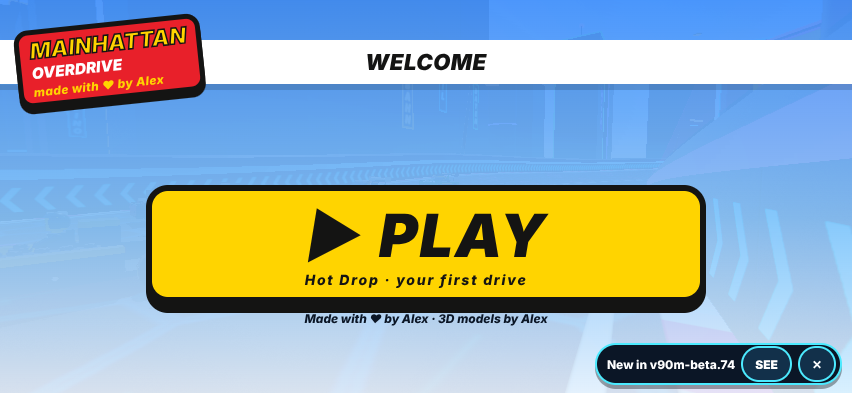
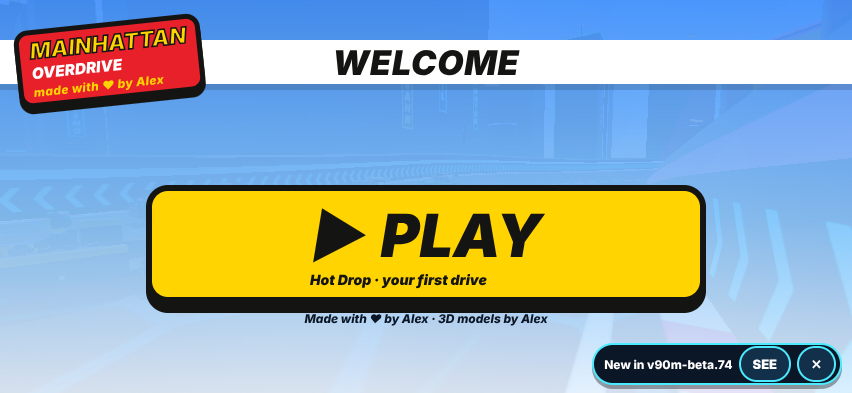
onboard-2: smaller module, pill row layout, trim old comments for size headroom
Claude-Session: https://claude.ai/code/session_01F7AP4sD7QLPE8AJ5seixeX

diff --git a/src/90_fixes_cv_ju.js b/src/90_fixes_cv_ju.js
@@ -1,5 +1,4 @@
 // ===== OB (owner bugs): burst cause log + phantom-burst fixes
-// every debris / stud burst / transform burst is logged with the function that fired it (cause); bursts fire only from real hits, pickups or real vehicle switches
 const OB={log:[],on:false,n:0,unc:0,sw:[],off:(()=>{try{return localStorage.getItem('ob_off')==='1'}catch(e){return false}})()};  // ob_off=1: old behaviour (for before/after measurements)
 function OB_who(){const L=(new Error().stack||'').split('\n').slice(2);if(L.some(l=>/AU_fountain/.test(l)))return'smashCheck';for(const l of L){const m=l.match(/at (?:[\w$]+\.)*([\w$]+) \(/);if(m&&!/^(OB_|debris$|studBurst$|burst$|AU_fountain$|forEach$|map$|apply$|call$)/.test(m[1]))return m[1]}return '?'}
 function OB_prop(at){if(!at||!HUB.pgrid)return null;const L=HUB.pgrid.get(Math.floor(at.x/16)*10000+Math.floor(at.z/16))||[];for(const p of L)if(Math.abs(p.x-at.x)<.01&&Math.abs(p.z-at.z)<.01){let v=true;for(let o=p.im;o;o=o.parent)if(!o.visible)v=false;return{t:p.t,vis:v,dy:+(p.y-groundY(p.x,p.z)).toFixed(1),py:+p.y.toFixed(1),ry:+RO.y.toFixed(1)}}return null}
@@ -20,8 +19,6 @@ if(!OB.off)FL_terr=function(T0,ground,dt=1/60){const raw=FL_raw(T0,ground),air=R
     if(FL.cT>=OB_HOLD&&(FL.cD>=OB_DIST||raw==='water')&&FL.hold<=0){FL.s=raw;FL.hold=OB_MINHOLD;FL.cT=0;FL.cD=0}}
   else if(!air){FL.cand=FL.s;FL.cT=0;FL.cD=0}
   return raw};
-// ---- fix 2 · contact tests: the old checks were circles (props: r+2.1 m, traffic: 5 m) so passing a lamp, bin or a car in the next lane
-// 1–3 m away "smashed" it with a full brick burst. Now: the car's real footprint (oriented box) must touch the prop / the other car's box.
 let OB_HW=1.25,OB_HL=2.45; // let: 98bc_bigcars.js sizes them to the player car
 function OB_touch(px,pz,r,ox=RO.x,oz=RO.z,oh=RO.h){const dx=px-ox,dz=pz-oz,s=Math.sin(oh),c=Math.cos(oh),a=dx*s+dz*c,b=dx*c-dz*s;
   const qa=Math.max(0,Math.abs(a)-OB_HL),qb=Math.max(0,Math.abs(b)-OB_HW);const g=Math.hypot(qa,qb),ok=g<r+.25;if(ok)OB.hit={k:'prop',f:OB.fr};else OB.pm.add(px*7919+pz);return ok||OB.off}
@@ -34,11 +31,9 @@ OB.cm=new Set();OB.pm=new Set();OB.fr=0;
 // frame counter for the contact flag (a burst is 'with contact' when a contact test passed in the same sim step)
 roamStep=(f=>function(dt){OB.fr++;OB.n0=OB.fr;return f.apply(this,arguments)})(roamStep);
 
-// OB: Euro-Skulptur (Willy-Brandt-Platz) rebuilt as a readable € sign: blue C arc (~300°, open to the right), two yellow bars
 // reaching left past the arc, on a neck + plinth, ringed by 12 yellow five-pointed stars (EU flag), ~14 m tall.
 // Everything is merged into ONE vertex-coloured geometry added to the landmark batch (BM.plain) -> no extra draw call.
 let OB_EURO=null;
-// Base height = what TR_bldFix computes for the collider footprint (max(min,max-.8) of 9 ground samples), so its terrain lift is 0:
 // the base game lifted only the vertices near the 2x2 collider (the old arc/stars got sheared = the "weird shape").
 const OB_EURO_HW=3.4,OB_EURO_HD=2.1;
 function OB_euroBuild(bt,BM,x,z){const GY=(a,b)=>(typeof groundY==='function'?groundY(a,b):0)||0,P=[];for(const u of[-1,0,1])for(const v of[-1,0,1])P.push(GY(x+u*OB_EURO_HW,z+v*OB_EURO_HD));
@@ -65,19 +60,13 @@ window.__ob=Object.assign(window.__ob||{},{euro:()=>{if(!OB_EURO)return null;con
 
 // ===== OC (owner bugs 2): soft night lights, real-scale Acropolis, height fixes, nothing standing on the roads
 const OC={dropT:{},pool:null,lamps:[],acro:null,moved:0,dropped:0,sunk:0,scaled:{},skip:/^(parthenon|erechtheion|propylaea|odeon)$/};
-// ---------- 1 · night lights. Headlights: one faint additive fan per car that fades along its length and to its edges (peak +0.24 after
-// FL's 2.4x night colour, no hard polygon); street lamps: a small bulb under each head + a warm radial pool on the ground (one draw call)
 function OC_beamGeo(){const NL=14,NW=8,L=20,P=[],C=[],I=[];
   for(let i=0;i<=NL;i++){const t=i/NL,z=2.3+t*L,hw=.95+t*L*.3,f=Math.min(1,t/.06)*(1-t)*(1-t);for(let j=0;j<=NW;j++){const u=j/NW*2-1,g=(1-u*u)*(1-u*u),k=.1*f*g;P.push(u*hw,.16,z);C.push(k,k*.93,k*.78)}}
   for(let i=0;i<NL;i++)for(let j=0;j<NW;j++){const a=i*(NW+1)+j,b=a+1,c=a+NW+1,d=c+1;I.push(a,c,b,b,c,d)}
   const g=new THREE.BufferGeometry();g.setAttribute('position',new THREE.Float32BufferAttribute(P,3));g.setAttribute('color',new THREE.Float32BufferAttribute(C,3));g.setIndex(I);g.setAttribute('uv',new THREE.Float32BufferAttribute(new Array(P.length/3*2).fill(0),2));g.computeVertexNormals();return g}
 FL_headlights=function(n){if(!HUB.grp||!HUB.cars)return;let H=FL.hl;const N=HUB.cars.length+1;
-  // PERF-4: capacity = instanceMatrix.count. H.count is the drawn count set below, so `H.count<N` rebuilt the mesh every call while any car was hidden
-  // (most of the time), and the old one was never disposed: its geometry + instance buffer stayed on the GPU (+0.7 MB per area, ~1 rebuild/s at dusk/night).
   if(H&&H.parent!==HUB.grp&&H.instanceMatrix.count>=N)HUB.grp.add(H);
   if(!H||H.instanceMatrix.count<N){if(H){H.removeFromParent();H.geometry.dispose();H.material.dispose();H.dispose()}
-    // v89q: no lamp boxes. The 4 fixed cboxes (±.74 m, ±2.25 m) fitted no car (traffic rears -2.0..-2.8 m, player x1.2), so at 2.4x additive
-    // they floated beside/behind every car as solid pink/white rectangles. The cars' own lamp parts glow via FL_emis; only the soft beam fan stays.
     const L=[OC_beamGeo()];
     const mat=new THREE.MeshBasicMaterial({vertexColors:true,transparent:true,blending:THREE.AdditiveBlending,depthWrite:false,toneMapped:false,color:0x000000,fog:true,polygonOffset:true,polygonOffsetFactor:-2,polygonOffsetUnits:-4});
     H=FL.hl=new THREE.InstancedMesh(mergeG(L),mat,N+8);H.frustumCulled=false;H.renderOrder=2;HUB.grp.add(H);H.userData.keep=1;H.userData.oc=1}
@@ -85,10 +74,8 @@ FL_headlights=function(n){if(!HUB.grp||!HUB.cars)return;let H=FL.hl;const N=HUB.
   if(pl&&RO.on){FL_hq.setFromAxisAngle(FL_hy,RO.h);FL_hm.compose(FL_hv.set(RO.x,RO.y,RO.z),FL_hq,FL_hs.set(1.2,1.2,1.25));H.setMatrixAt(j++,FL_hm)}
   for(const c of HUB.cars){if(c.dead>0)continue;const im=HUB.cim[c.k];if(!im)continue;im.getMatrixAt(c.j,FL_hm);H.setMatrixAt(j++,FL_hm)}
   H.count=j;H.instanceMatrix.needsUpdate=true;OC_poolStep(n)};
-// radial pool: 6 concentric discs (radius 1 .. 0.2) merged into one geometry, each adding 1/6 of the light: a soft stepped falloff to the rim
 function OC_poolGeo(){const L=[];for(let k=0;k<6;k++){const r=.5*(1-k*.16);L.push(new THREE.CircleGeometry(r,28).rotateX(-Math.PI/2).toNonIndexed())}const P=[];for(const g of L)P.push(...g.attributes.position.array);
   const g=new THREE.BufferGeometry();g.setAttribute('position',new THREE.Float32BufferAttribute(P,3));return g}
-// lamp heads: the 1.4 m white glow ball becomes a small flattened bulb under the head; pools of light on the ground under every lamp
 function OC_lampsBuild(){const D=HUB.ptypes;if(!D||!D.lamp||!HUB.lampGlow)return;const bulb=new THREE.SphereGeometry(.3,10,6);bulb.scale(1.3,.5,1);bulb.translate(0,-.3,0);
   HUB.grp.traverse(o=>{if(o.isInstancedMesh&&o.material===HUB.lampGlow)o.geometry=bulb});
   const L=OC.lamps=HUB.props.filter(p=>p.t==='lamp');if(OC.pool&&OC.pool.parent)OC.pool.parent.remove(OC.pool);OC.pool=null;if(!L.length)return;
@@ -98,7 +85,6 @@ function OC_lampsBuild(){const D=HUB.ptypes;if(!D||!D.lamp||!HUB.lampGlow)return
   im.computeBoundingSphere();im.frustumCulled=false;im.renderOrder=1;im.visible=false;im.userData.keep=1;im.userData.ocPool=1;HUB.grp.add(im);OC.pool=im;OC.pm=m;OC.dead=new Set()}
 function OC_poolStep(n){const P=OC.pool;if(!P)return;P.material.opacity=.04*n;OC.poolPeak=6*.04*n;P.visible=n>.02;if(!P.visible)return;OC.pt=(OC.pt||0)+1;if(OC.pt%20)return;let ch=false;
   for(const p of OC.lamps){const dead=!p.alive;if(dead===OC.dead.has(p))continue;if(dead){OC.dead.add(p);P.getMatrixAt(p.ocP,OC.pm);p.ocM=OC.pm.clone();OC.pm.makeScale(0,0,0)}else{OC.dead.delete(p);OC.pm.copy(p.ocM)}P.setMatrixAt(p.ocP,OC.pm);ch=true}if(ch)P.instanceMatrix.needsUpdate=true}
-// ---------- 2 · props: nothing stands on a drivable surface (streets, filler roads, Autobahn, biome roads, trails, junctions); real heights;
 // ground-placed props sit on the lowest ground under their footprint (no floating edge on slopes)
 const OC_GAME=new Set(['cone','barrier','clight']);// roadworks deliberately placed on the lanes (art-6: brick piles, towers and gold bricks are block scatter in the block RECT, which diagonal roads cross, so they get the same push-off-the-road as any prop; GO art/props-road)
 const OC_fp=(t,D)=>t.startsWith('car')||/^CE_(car|taxi)/.test(t)?1.1:Math.min((D[t]?D[t].r:1)*.5,1.2);
@@ -121,17 +107,12 @@ function OC_props(L,D){OC_scaleDefs(D);let j=0;for(const p of L){let ground=Math
     if(ground&&D[p.t]){const y=OC_minG(p.x,p.z,OC_fp(p.t,D));if(g0-y>1){OC.steep=(OC.steep||0)+1;continue}if(p.y-y>.05){p.y=y;OC.sunk++}p.gp=1}
     L[j++]=p}L.length=j;HUB.OC={moved:OC.moved,dropped:OC.dropped,by:OC.dropT,sunk:OC.sunk,steep:OC.steep||0};return L}
 const OC_onRoad=(t,x,z)=>!OC_GAME.has(t)&&HUB.ptypes&&OC_roadE(x,z)<OC_fp(t,HUB.ptypes)+.35;
-// real heights: Athens street tree 4.8 m -> 6.5 m, olive 3.7 -> 6.1 m; parked and traffic cars (toy 3.0-3.5 m tall, 5.9-6.3 m long) -> ~1.6 x 1.95 x 4.6 m
 function OC_carScale(g,car){if(g.userData.oc)return;g.computeBoundingBox();const b=g.boundingBox,w=b.max.x-b.min.x,h=b.max.y-b.min.y,l=b.max.z-b.min.z;if(h<2.2)return;
   if(w<1.2){const k=1.75/h;g.scale(k,k,k)}else if(car||l<=6.4&&w>=3.2)g.scale(1.95/w,1.6/h,4.6/l);else g.scale(Math.min(1,2.5/w),Math.min(1,(h>4.5?4.2:3.4)/h),1);// cars: real size; vans, trucks, buses: real width, height capped
   g.userData.oc=1;g.computeBoundingBox();g.computeBoundingSphere()}
 function OC_scaleDefs(D){const S={tree:CID==='fra'?null:[1.25,1.35,1.25],CE_olive:[1.2,1.65,1.2]};for(const t in S){const d=D[t];if(!d||!S[t]||d.g.userData.oc)continue;d.g.scale(...S[t]);d.g.userData.oc=1;OC.scaled[t]=S[t]}
   for(const t of['car','car2','car3','car4'])if(D[t]){OC_carScale(D[t].g,1);OC.scaled[t]=1}}
 function OC_traffic(){for(const k in HUB.cim||{}){const im=HUB.cim[k];if(im&&im.geometry){OC_carScale(im.geometry);im.computeBoundingSphere&&im.computeBoundingSphere()}}}
-// ---------- 3 · the Acropolis at real scale (1 world unit = 1 m). Plateau ~266 x 156 m (hill data), Parthenon 69.5 x 30.9 m stylobate,
-// 8 x 17 Doric columns 10.43 m, entablature 3.29 m, pediments; Erechtheion + caryatid porch, Propylaea, Athena Nike on its bastion,
-// Odeon of Herodes Atticus, Theatre of Dionysus; scaffolding + tower crane at the Parthenon. Offsets in metres east/north of the Parthenon
-// centre (site plan + Wikipedia coordinates). Built right after the terrain fix, merged into one batch, colliders added to the grid.
 const OC_AK={parth:[0,0],erech:[-15,60],propy:[-118,15],nike:[-137,-9],odeon:[-186,-88],dion:[111,-125],crane:[-6,27]};
 function OC_acroBuild(){if(CID==='fra'||!HUB.grp||OC.acroG===HUB.grp)return;OC.acroG=HUB.grp;const[px,pz]=WP(80,-507);if(px<WX0+300||px>WX1-300||pz<WZS+300||pz>WZN-300)return;
   const bt=new LBatch(),BM=HUB.BM,MB='#e6d8b8',MW='#efe4cb',MD='#d4c29c',W=(e,n)=>[px-e,pz+n],cols=[],bl=[],box=(w,h,d,x,y,z,c,ry=0)=>bt.add(cbox(w,h,d,x,y+h/2,z,c,ry),BM.plain);
@@ -156,13 +137,11 @@ function OC_acroBuild(){if(CID==='fra'||!HUB.grp||OC.acroG===HUB.grp)return;OC.a
   {const[x,z]=W(...OC_AK.crane),y=groundY(x,z),Y='#f2c200',H=42;for(let k=0;k<7;k++)box(1.8,H/7-.4,1.8,x,y+k*H/7,z,Y);for(let k=0;k<7;k++)for(const s of[-1,1])bt.add(cbox(.1,6,.1,x+s*.85,y+k*H/7+3,z+.85*s,'#d8a800'),BM.plain);
     box(2.2,2.4,2.2,x,y+H,z,'#d8a800');box(46,1.2,1.2,x-14,y+H+2.4,z,Y);box(14,1,1.2,x+16,y+H+2.4,z,Y);box(4,2.6,2.4,x+20,y+H+.2,z,'#7a7a7a');box(2.2,2,2.2,x+1.8,y+H-1.6,z-1.7,'#ffffff');
     box(.1,8,.1,x,y+H+3.6,z,Y);box(.06,16,.06,x-30,y+H+2.4-16,z,'#333333');box(.8,.8,.8,x-30,y+H+2.4-16.8,z,'#e8302a');coll(x,z,1.2,1.2,y,y+H+3,0);A.crane=H+3.6}
-  // Erechtheion: main block 23.5 x 11.6 m, east porch (6 Ionic columns), north porch (4+2), caryatid porch on the south side (6 korai on a podium)
   {const[x,z]=W(...OC_AK.erech),y=gmin(x,z,14,9),BW=23.5,BD=11.6;box(BW+2,1,BD+2,x,y-.4,z,MD);box(BW,8.6,BD,x+1,y+.6,z,MB);box(BW+.8,1.4,BD+.8,x+1,y+9.2,z,MW);
     for(let i=0;i<6;i++)col(x-BW/2-1.6,y+.6,z-BD/2+1+i*(BD-2)/5,.42,6.6);box(1.6,1.4,BD,x-BW/2-1.6,y+7.2,z,MW);ped(x-BW/2-1.2,y+8.6,z,BD+.6,2.4,2.2,MW);
     {const nx=x+BW/2-5.5,nz=z+BD/2+3.8;box(10.7,.6,7.6,nx,y-.2,nz,MD);for(let i=0;i<4;i++)col(nx-4.5+i*3,y+.4,nz+3.2,.45,7.6);for(const s of[-1,1])col(nx+s*4.5,y+.4,nz,.45,7.6);box(10.7,1.6,7.6,nx,y+8,nz,MW)}
     {const cx=x+BW/2-4,cz=z-BD/2-1.9;box(5.6,1.8,3.8,cx,y+.6,cz,MD);for(const[a,b]of[[-2.2,-1.5],[-.75,-1.5],[.75,-1.5],[2.2,-1.5],[-2.2,0],[2.2,0]]){bt.add(ccyl(.28,.36,2.3,cx+a,y+2.4+1.15,cz+b,'#f2e8d2',8),BM.plain);bt.add(csph(.3,cx+a,y+4.85,cz+b,'#f2e8d2'),BM.plain)}box(5.9,.7,4.1,cx,y+5.1,cz,MW)}
     coll(x+1,z+1.5,BW/2+1.6,BD/2+3,y,y+10.6,0);A.erech={x,z,y}}
-  // Propylaea: central gate building (6 Doric columns west and east, pediments), Pinakotheke (NW wing), SW wing; stairs down the west approach
   {const[x,z]=W(...OC_AK.propy),y=gmin(x,z,14,12);box(24,1.2,20,x,y-.6,z,MD);const yw=y+.6;
     for(const[ex,h]of[[12,8.8],[-12,8.5]])for(let i=0;i<6;i++){col(x+ex,yw,z-8.5+i*3.4,.78,h);}for(const s of[-1,1])box(22,9.2,1.4,x,yw,z+s*9.5,MB);for(const zz of[-5.1,5.1])box(1.4,9,2.6,x+1,yw,z+zz,MB);
     for(const ex of[12,-12]){box(2.2,2.4,20,x+ex,yw+8.8,z,MB);ped(x+ex,yw+11.2,z,20.4,2.2,2.6,MW)}box(22,.5,20,x,yw+11,z,MW);
@@ -184,7 +163,6 @@ function OC_acroBuild(){if(CID==='fra'||!HUB.grp||OC.acroG===HUB.grp)return;OC.a
   {const[x,z]=W(...OC_AK.dion),yo=groundY(x,z);bt.add(ccyl(10,10,.3,x,yo,z,'#d9cdb2',24),BM.plain);for(let t=0;t<18;t++){const R=11+t*1.55,top=yo+.45+t*.78,n=Math.ceil(R*1.25*Math.PI/4.2);
       for(let k=0;k<n;k++){const a=-.12*Math.PI+1.24*Math.PI*(k+.5)/n,cx=x+Math.cos(a)*R,cz=z+Math.sin(a)*R,g=groundY(cx,cz);if(g>top-.2)continue;box(R*1.24*Math.PI/n+.3,top-g+.8,1.7,cx,g-.8,cz,t===0?'#f0e6d0':t%6===5?'#cbbd9e':'#dfd3b8',Math.PI/2-a)}}
     const zs=z-14,gs=gmin(x,zs,22,3);box(44,2.4+(yo-gs),5,x,gs,zs,'#c9b994');for(let k=0;k<6;k++)col(x-15+k*6,yo+2.4,zs,.4,3.2,MB,8);coll(x,zs,22,2.5,gs,yo+3,0);A.dion={x,z,y:yo}}
-  // circuit walls along the plateau edge (the base ring is skipped: the terrain fix lifted it by the plateau height); open to the west approach
   {const H=HILL_BY.akro,N=72,pt=t=>{const u=Math.sin(t),v=Math.cos(t),de=(u*H.rx*.975)*H.ca+(v*H.rz*.975)*H.sa,dn=-(u*H.rx*.975)*H.sa+(v*H.rz*.975)*H.ca;return[H.cx-de*H.sx,H.cz+dn*H.sz,u]},yH=groundY(H.cx,H.cz);
     for(let k=0;k<N;k++){const t0=k/N*Math.PI*2,t1=(k+1)/N*Math.PI*2,[x0,z0,u0]=pt(t0),[x1,z1,u1]=pt(t1);if((u0+u1)/2<-.42)continue;const cx=(x0+x1)/2,cz=(z0+z1)/2,L=Math.hypot(x1-x0,z1-z0)+1.6,ry=Math.atan2(-(z1-z0),x1-x0),g=groundY(cx,cz);
       box(L,yH+1.3-(g-7),2.2,cx,g-7,cz,'#cdb995',ry);box(L,.35,2.6,cx,yH+1.3,cz,'#bba882',ry);coll(cx,cz,L/2,1.1,g,yH+1.6,ry)}}
@@ -199,7 +177,6 @@ function OC_unbury(){const F=HUB.bld.filter(b=>b.trMin!=null&&b.trBase!=null&&b.
   const m=new THREE.Mesh(mergeG(pl),new THREE.MeshStandardMaterial({vertexColors:true,roughness:.92}));m.receiveShadow=true;m.userData.trPl=1;HUB.grp.add(m)}
 {const _hg=hubGrid;hubGrid=()=>{if(CID==='fra'&&HUB.grp&&OC.altG!==HUB.grp){OC.altG=HUB.grp;try{OC_altFix()}catch(e){console.warn('OC alt',e)}}const first=HUB.grp&&OC.ubG!==HUB.grp,r=_hg();if(first){OC.ubG=HUB.grp;try{OC_unbury()}catch(e){console.warn('OC unbury',e)}}try{OC_acroBuild()}catch(e){console.warn('OC acro',e)}return r}}
 {const _ts=hubTrafficStep;hubTrafficStep=function(){if(HUB.cim&&OC.cimS!==HUB.cim){OC.cimS=HUB.cim;OC_traffic()}return _ts.apply(this,arguments)}}
-// Frankfurt Altstadt core (Römerberg - Dom - Paulsplatz): non-landmark blocks above 19 m are brought down to 4-5 storeys (14.5-18 m incl. roof),
 // before the terrain fix (bodies still at y=0): colliders, instances and merged vertices inside each footprint scale in y
 function OC_altFix(){const R=LM_BY['Römer'],K=LM_BY['Kaiserdom'];if(!R||!K)return;const cx=(R.x+K.x)/2,cz=(R.z+K.z)/2,inC=(x,z)=>((x-cx)/280)**2+((z-cz)/170)**2<1&&!inRiver(x,z);OC.alt={cx,cz,n:0};
   const LMS=Object.values(LM_BY).filter(L=>L&&L.x!=null),lmk=b=>LMS.some(L=>Math.hypot(b.x-L.x,b.z-L.z)<Math.max(L.r||0,28));const F=[];
@@ -239,7 +216,6 @@ function OC_audit(){const D=HUB.ptypes,T=[],out={rows:T,bad:[],float:0,buried:0,
 function OC_lyka(h,nx,nz,r){if(CID==='fra'||typeof HILL_BY==='undefined'||!HILL_BY.lyka)return;const L=HILL_BY.lyka;if(L.cx<WX0+300||L.cx>WX1-300||L.cz<WZS+300||L.cz>WZN-300)return;let b=-1,bi=0,bj=0;const i0=Math.max(0,Math.floor((L.cx-260-WX0)/r)),i1=Math.min(nx-1,Math.ceil((L.cx+260-WX0)/r)),j0=Math.max(0,Math.floor((L.cz-260-WZS)/r)),j1=Math.min(nz-1,Math.ceil((L.cz+260-WZS)/r));
   for(let j=j0;j<=j1;j++)for(let i=i0;i<=i1;i++)if(h[j*nx+i]>b){b=h[j*nx+i];bi=i;bj=j}const d=277-TR_DATUM-b;if(!(d>0)||b<100)return;const R=190;
   for(let j=Math.max(0,bj-Math.ceil(R/r));j<=Math.min(nz-1,bj+Math.ceil(R/r));j++)for(let i=Math.max(0,bi-Math.ceil(R/r));i<=Math.min(nx-1,bi+Math.ceil(R/r));i++){const t=1-Math.hypot(i-bi,j-bj)*r/R;if(t>0)h[j*nx+i]+=d*t*t*(3-2*t)}window.__ocLyka=d}
-// the Acropolis south slope (Odeon - Theatre of Dionysus) is an archaeological park: no apartment blocks in the building raster there
 function OC_zone(cap){if(CID==='fra')return;const[px,pz]=WP(80,-507),W=(e,n)=>[px-e,pz+n],[ox,oz]=W(...OC_AK.odeon),[dx,dz]=W(...OC_AK.dion);cap(ox,oz,dx,dz,50,3);cap(ox,oz,ox,oz,56,3);cap(dx,dz,dx,dz,64,3)}
 function OC_top(t){return Math.max(t,156-TR_DATUM)}// plateau at the real summit level (156 m a.s.l.), ~70 m above the Plaka streets
 function OC_fix(U,x,z){if(U.k!=='poly')return U;const s=athStyleAt(x,z),lo=s==='old'||s==='town'||s==='outer'||s==='plaka'?3:s==='villa'?2:5,hi=s==='old'||s==='plaka'?5:s==='town'||s==='villa'?4:s==='outer'?6:8,f=Math.min(hi,Math.max(lo,U.fl));return f===U.fl?U:{...U,fl:f}}
@@ -346,7 +322,6 @@ function CV_pedPost(){const P=HUB.peds,N=HUB.nodes;if(!P)return;for(const p of P
  const _ht=hubTrafficStep;hubTrafficStep=dt=>{if(!CV.sig.length&&!CV.yl.length||!HUB.cars)return _ht(dt);CV.t+=dt;CV_pre(dt);_ht(dt);CV_post(dt)}
  const _ps=pedStep;pedStep=dt=>{if(!CV.sig.length||RD_ON)return _ps(dt);/* RD: pedestrians follow RD_kerb rules instead */CV_pedPre(dt);_ps(dt);CV_pedPost()}
  const _ce=CE_streets;CE_streets=(add,rnd,D)=>{_ce(add,rnd,D);try{CV_streets(add,D)}catch(e){console.warn('CV',e)}}}
-// ---------- city variety: Athens units (hooked into athBuildG put), per-building seed for height, colour, roof, balconies, shopfront
 const CV_AP={poly:['#f4f1ea','#efe3c8','#f2d9b0','#e9e4dc','#f3dcd2','#dfe9ee','#e8d5c0','#f0e0a8','#d8e4d0','#f6e2d6','#cfd8e0','#e9c9a8'],neo:['#efe0bf','#f2d7a0','#e8cfa6','#e6b8a0','#f0c8b8','#dcc8a8','#f3e9d8','#e8d0b0','#c9d6c0'],
   plaka:['#f7f3ea','#f3e3c3','#e8c9a0','#d9e6ef','#f4d8c8','#ffffff','#f1e6b8','#e8b890'],villa:['#ffffff','#fbf6ea','#f6eedc','#fff8f0','#f0e0c8','#e8eef0','#f4e4d4'],glass:['#2f5d73','#3a6a80','#4a7a8a','#2a4a5a','#5a8a98','#3a5a6a']};
 function CV_put(E,U,x,z,ry,c,s,fr){const k=U.k,h0=CV_h(x,z),h1=CV_h(x,z,1),h2=CV_h(x,z,2),L=(lx,lz)=>[x+lx*c+lz*s,z-lx*s+lz*c],hx=v=>parseInt(v.slice(1),16),q=cityAt(x,z),
@@ -385,7 +360,6 @@ function CV_fraVar(){const grp=HUB.grp,BI=new Map();for(const b of HUB.bld)BI.se
   mk(mergeG(B),tb,new THREE.MeshStandardMaterial({vertexColors:true,roughness:.8}),(e,i,m)=>{_m.compose(Q.set(e[0],.3,e[1]),e[5],V3(e[3]+.12,e[2],e[4]+.12));m.setMatrixAt(i,_m)});CV.cr=cr.length;CV.tb=tb.length}
 // ---------- street types: tree-lined boulevard medians, tiled pedestrian streets, plaza fountains, small parks
 function CV_streets(add,D){const rd=mul(9090),grp=HUB.grp,MP=[],MC=[],TP=[],TU=[],TI=[];let nm=0,nt=0,nf=0,np=0;const has=t=>D[t]?t:'tree',nearJ=(x,z,m)=>JUNC.some(J=>Math.abs(J.x-x)<J.r+m&&Math.abs(J.z-z)<J.r+m&&Math.hypot(J.x-x,J.z-z)<J.r+m)||TJ_nearFx(x,z,m-4)/* terr-2: medians also stop at filler crossings */;
-  // dev4: no median slab within 70 m of a motorway-ramp start (the green strip ended in a flat 'plate' right where the ramp's double yellow begins); CV.medP lists the median segment starts for the GO check
   const RS=(typeof AB_AUTO!=='undefined'?AB_AUTO:[]).map(Z=>Z.pts[0]),nearRamp=(x,z)=>RS.some(u=>Math.hypot(u[0]-x,u[1]-z)<70);CV.medP=[];
   const quad=(A,a,b,c,d)=>A.push(...a,...b,...c,...a,...c,...d);
   for(const S of CITY_S){const cl=S.r.cls,P=S.pts,w=S.r.w;if((cl==='arterial'||cl==='ring')&&w>=17&&!S.prof&&S.L>80){for(let i=2;i<P.length-3;i+=2){const p=P[i],o=P[i+2];if(nearJ(p.x,p.z,14)||nearJ(o.x,o.z,14)||nearRamp(p.x,p.z)||nearRamp(o.x,o.z)||onAnyDeck(p.x,p.z)||onAnyDeck(o.x,o.z)||inRiver(p.x,p.z,-2)||(HUB.gates||[]).some(g=>Math.hypot(g.x-p.x,g.z-p.z)<40))continue;
@@ -434,7 +408,6 @@ const JU_ss=(a,b,x)=>{const t=clamp((x-a)/(b-a),0,1);return t*t*(3-2*t)};
 feed=(f=>function(l,p,c){if(JU_roam())JU_ev(/NEAR MISS/.test(l)?'near':/^AIR /.test(l)?'air':'feed');return f(l,p,c)})(feed);
 say=(f=>function(a,b,t){if(JU_roam()&&(a||b))JU_ev('say');return f(a,b,t)})(say);
 studGain=(f=>function(v,b){if(JU_roam())JU_ev('stud');return f(v,b)})(studGain);
-// ---- hit-stop: the frame clock stands still for JU.hs seconds of real time (sim dt = 0, sound already fired on the impact frame)
 function JU_hit(s){if(!JU.on||!JU_roam()||JU_busy()||JU_split())return;const k=fxK();JU.kick=Math.max(JU.kick,Math.min(1,s/JU_C.hsTd)*k);if(JU.hsCd>0||!k)return;JU.hs=Math.max(JU.hs,s);JU.hsCd=.35}
 function JU_gate(rt){JU.hsCd=Math.max(0,JU.hsCd-rt);if(JU.hs>0){JU.hs-=rt;JU.frz=true}else JU.frz=false;return JU.frz}
 frame=(f=>function(now){if(JU.hold){requestAnimationFrame(frame);composer.render();return}const rt=Math.min(.05,Math.max(0,(now-(JU.ln??now))/1000));JU.ln=now;JU.rt=rt;if(JU_gate(rt))JU.off+=rt*1000;f(now-JU.off);if(state!=='roam'&&pl&&pl.mesh.scale.y!==1)pl.mesh.scale.set(1,1,1)})(frame);
@@ -450,14 +423,11 @@ comboStep=(f=>function(dt){const n0=CB.n,m0=comboMult();f(dt);if(JU.on&&n0>=5&&C
 // ---- roam step: clock, drift tiers, near miss, air + landing, stud trail
 roamStep=(f=>function(dt){const busy=JU_busy();if(!busy)JU.clk+=dt;if(!JU.on||!pl||!dt)return f(dt);
   const s=pl,d0=RO.dDir,t0=RO.dT||0,tr0=d0?JU_tier(t0):0,a0=!!s.air;f(dt);if(RO.wk||!pl)return;
-  // drift: slower charge (tiers at 0.5 / 1.1 / 2.0 s when steering into it), a cue per tier, payout 8 / 18 / 32 % bar + 0.8 / 1.6 / 2.6 s turbo
   if(d0&&RO.dDir){RO.dT=t0+(RO.dT-t0)*JU_C.tierK;const tr=JU_tier(RO.dT);if(tr>tr0){const fx0=Math.sin(RO.h),fz0=Math.cos(RO.h);burst(SPARK,JU.v1.set(RO.x-fx0*3,RO.y+.6,RO.z-fz0*3),10+tr*6,9+tr*3,.35,JU_TC[tr-1]);AU.sfx('style');JU_ev('tier');JU.kick=Math.max(JU.kick,.12*tr*fxK())}}
   else if(d0&&!RO.dDir&&tr0>0){RO.turbo=Math.max(RO.turbo||0,JU_C.turbo[tr0-1]);s.bm=Math.min(100,s.bm+JU_C.bm[tr0-1]-6*tr0);if(tr0===3)JU_pop('ULTRA TURBO','','#c46bff')}
   const sp=Math.abs(RO.v);
-  // near miss: a traffic car passes 5–8 m beside us at ≥ 15 m/s (the base one needs 45 m/s); shares the base cooldown c.nm
   if(sp>=15&&!s.air&&!busy&&(JU.nmF=(JU.nmF+1)&1)===0){const fx=Math.sin(RO.vh??RO.h),fz=Math.cos(RO.vh??RO.h);for(const c of HUB.cars){if(c.dead>0||c.x==null)continue;const dx=c.x-RO.x,dz=c.z-RO.z;if(dx*dx+dz*dz>144){c.jpa=null;continue}const al=dx*fx+dz*fz,lat=Math.abs(dx*fz-dz*fx);
     if(c.jpa!=null&&c.jpa>0&&al<=0&&lat>(SC_S&&SC_S.on?2.9:4.8)&&lat<(SC_S&&SC_S.on?5.5:8)&&Math.abs((c.y||0)-RO.y)<3&&!(c.nm>0)){c.nm=3;award(s,'NEAR MISS',6,100,'#4ceaff');AU.sfx('near');comboAdd(2)}c.jpa=al}}
-  // air: the base already pays an air bonus over 1 s (roamLanded); here: squash on landing, camera kick on big landings, slight stretch in the air
   if(s.air&&!a0)JU.airT0=JU.clk;else if(!s.air&&a0){const at=JU.clk-JU.airT0;JU.sq=Math.min(.24,.14+at*.1);if(at>=JU_C.airMin)JU.kick=Math.max(JU.kick,Math.min(.45,at*.3)*fxK())}
   JU.sq=Math.min(.24,Math.max(0,JU.sq-Math.max(0,dt)*1.1));/* size-1: a negative dt (test clock) grew sq to 3.5 → car 2.6× big and upside down */{const q=s.air?-.05:JU.sq*Math.min(1,JU.sq*8),m=s.mesh.scale;if(Math.abs(m.y-(1-q))>1e-4)m.set(1+q*.45,1-q,1+q*.45)}
   // stud trail: nothing rewarding for 5 s while driving → a fountain of studs on the road ahead (pooled stud meshes)
@@ -465,19 +435,16 @@ roamStep=(f=>function(dt){const busy=JU_busy();if(!busy)JU.clk+=dt;if(!JU.on||!p
     for(let k=0;k<6;k++){const x=RO.x+fx*(ahead+k*3.5),z=RO.z+fz*(ahead+k*3.5);if(roamHit(x,z,1,RO.y))break;studBurst(JU.v1.set(x,groundAt(x,z,RO.y+3)+.8,z),JU.v0,0);n++}
     // blocked ahead (a wall, a tight turn): pop them in a ring around the car instead, inside the stud magnet
     if(!n){JU.v0.set(0,0,0);for(let k=0;k<6;k++){const a=k*1.047,x=RO.x+Math.sin(a)*6,z=RO.z+Math.cos(a)*6;if(!roamHit(x,z,1,RO.y))studBurst(JU.v1.set(x,groundAt(x,z,RO.y+3)+.8,z),JU.v0,0)}}}})(roamStep);
-// ---- camera: offsets are removed before the base camera runs and re-applied after, so they never feed back into its smoothing
 roamCam=(f=>function(dt){const c=camera;c.position.sub(JU.co);c.fov-=JU.cf;JU.co.set(0,0,0);JU.cf=0;f(dt);
   if(!JU.on||!JU_roam()||(typeof M1!=='undefined'&&(M1.cs||M1.tdc&&M1.tdc.t>0))){c.updateProjectionMatrix();return}
   const rt=JU.rt,sp=Math.abs(RO.v),k=clamp(sp/Math.max(30,RO.top||60),0,1.3),e=1-Math.exp(-rt*4),boost=!!pl.nitro;
   JU.drop+=(2.2*SC_cam()*JU_ss(.3,1.05,k)*(pl.air?.3:1)-JU.drop)*e;JU.fx+=((2*JU_ss(.6,1,k)+(boost?2.5:0))-JU.fx)*e;
   JU.la+=(clamp((RO.yr||0)*.07*Math.min(1,sp/20)+(RO.dDir?RO.dDir*.05:0),-.15,.15)-JU.la)*(1-Math.exp(-rt*5));
   if(!JU.frz)JU.kick*=Math.exp(-rt*9);if(JU.kick<.002)JU.kick=0;
-  // tighter chase at speed: the base lag lets the camera drift ~30 m back at top speed; keep it within 24 m (boost may stretch to 27)
   const dx=RO.x-c.position.x,dz=RO.z-c.position.z,dh=Math.hypot(dx,dz)||1,lim=(boost?27:24)*SC_cam(),pull=Math.max(0,dh-lim)*.9+JU.kick*1.6;
   JU.co.set(dx/dh*pull,-JU.drop+JU.kick*.5,dz/dh*pull);if(c.position.y+JU.co.y<RO.y+2.2)JU.co.y=RO.y+2.2-c.position.y;c.position.add(JU.co);
   if(JU.la)c.rotateOnWorldAxis(JU.Y,JU.la);
   JU.cf=JU.fx+JU.kick*5;c.fov+=JU.cf;c.updateProjectionMatrix();
-  // speed blur + speed lines: capped at the mission limits everywhere (uSpeed ≤ .25, uBoost ≤ .15, lines ≤ .3 in missions)
   const U=FX.uniforms,K=fxK();U.uSpeed.value+=(Math.min(.25,.25*JU_ss(.55,1.1,k))*K-U.uSpeed.value)*e;U.uBoost.value+=((boost?.15:RO.turbo>0?.1:0)*K*TUNE.fxGlow-U.uBoost.value)*e;
   {const el=huQ('#speedFx');if(el){let w=Math.max(boost?clamp(sp/40,0,1)*.85*TUNE.fxLines:0,.32*JU_ss(.7,1.05,k));if(JU_mis())w=Math.min(w,.3);w*=K;const o=+el.style.opacity||0,n=Math.abs(w-o)<.004?w:Math.round((o+(w-o)*.15)*1000)/1000;if(n!==o)el.style.opacity=n}}})(roamCam);
 // ---- wind rises with speed relative to the roam top speed, a low road rumble under it (one extra noise loop, made once)
@@ -502,12 +469,6 @@ window.__ju={get JU(){return JU},C:JU_C,on:b=>{JU.on=!!b;if(!JU.on&&pl)pl.mesh.s
   aimTraffic:(v=38)=>{let b=null,bd=1e9;for(const c of HUB.cars){if(c.dead>0||c.x==null)continue;const d=Math.hypot(c.x-RO.x,c.z-RO.z);if(d<bd&&d>30){bd=d;b=c}}if(!b)return null;const N=HUB.nodes,A=N[b.a],B=N[b.b],L=Math.hypot(B.x-A.x,B.z-A.z)||1,dx=(B.x-A.x)/L,dz=(B.z-A.z)/L;
     RO.x=b.x-dx*26;RO.z=b.z-dz*26;RO.y=groundAt(RO.x,RO.z,b.y+3);RO.vy=0;RO.h=RO.vh=Math.atan2(dx,dz);RO.yr=0;RO.v=v;camSnap=true;return{x:b.x,z:b.z}}};
 
-// ---- W12 · car paint reads as LEGO colours (Bright Red read pink-magenta, blue lavender, yellow pale). Two causes, measured on a side view:
-// 1) the player's glossy paint mirrored the sky environment at envMapIntensity 1.2 (traffic is capped at .6): base specular + clearcoat add
-//    a blue-white veil, which in sRGB lifts the near-zero channels of a saturated paint (red 208,23,18 → 245,51,69). Env off → 224,6,6.
-// 2) the OutputPass Neutral tone map desaturates every pixel whose brightest channel passes ~0.76 toward white; sunlit paint gets there.
-// Fix, car materials only (world look unchanged): player paint env capped at .6 like traffic, and a hue-preserving soft knee before the tone
-// map keeps a saturated paint's brightest channel under 0.76; white/grey highlights (low saturation) are left to the tone map as before.
 const W12P={t:0,K:.55,M:.76,env:.6};
 function W12_paint(m){if(!m||m.userData.w12||!(m.isMeshStandardMaterial))return;m.userData.w12=1;const ob=m.onBeforeCompile,pk=m.customProgramCacheKey;
   m.onBeforeCompile=function(sh,r){if(ob)ob.call(this,sh,r);sh.fragmentShader=sh.fragmentShader.replace('#include <opaque_fragment>',

diff --git a/src/98ob2_onboard.js b/src/98ob2_onboard.js
@@ -1,45 +1,32 @@
 // onboard-2: 2K-style first screen (rv2k2/menu). First launch = one big PLAY; returning = CONTINUE + RACES/GARAGE/BUILD/MORE; the rest under MORE. ?ob2=0 = old menu.
-const OB2=!/[?&]ob2=0/.test(location.search);
-if(OB2){
-  const st=document.createElement('style');st.textContent=`
-#ob2{display:none}
+if(!/[?&]ob2=0/.test(location.search)){
+  const st=document.createElement('style');st.textContent=`#ob2{display:none}
 #menu.home.ob2 #ob2{display:flex;flex-direction:column;align-items:center;gap:clamp(8px,2vh,16px);margin-top:70px;width:min(92vw,560px);z-index:2}
-#menu.home.ob2:not(.ob2more) .hcards,#menu.home.ob2:not(.ob2more) .hfoot{display:none}
-#menu.home.ob2:not(.ob2more) .hbar h2{font-size:clamp(16px,2.6vw,26px)}
-#menu.home.ob2more #ob2 .ob2m{display:none}
-#menu.home.ob2more #ob2{margin-top:0;position:absolute;left:max(12px,env(safe-area-inset-left));bottom:calc(10px + env(safe-area-inset-bottom,0px));width:auto}
-#ob2 .ob2play{all:unset;box-sizing:border-box;cursor:pointer;width:100%;min-height:30vh;display:flex;align-items:center;justify-content:center;gap:12px;background:#ffd400;border:6px solid #141413;border-radius:22px;box-shadow:0 10px 0 #141413;font:italic 900 clamp(34px,7vw,64px) var(--hud);color:#141413;letter-spacing:.03em}
-#ob2 .ob2play small{font:italic 800 14px var(--hud);display:block}
-#ob2 .ob2row{display:flex;gap:10px;width:100%}
-#ob2 .ob2row button,#ob2 .ob2back{all:unset;box-sizing:border-box;cursor:pointer;flex:1;min-height:48px;display:flex;align-items:center;justify-content:center;background:#fff;border:4px solid #141413;border-radius:999px;box-shadow:0 5px 0 #141413;font:italic 900 clamp(14px,2.2vw,18px) var(--hud);color:#141413;padding:0 10px}
-#ob2 .ob2back{flex:none;padding:0 22px}
-#menu.home.ob2:not(.ob2more) .ob2back{display:none}
-#ob2 .ob2by{font:italic 800 12px var(--hud);color:#0b1626;text-align:center}
-#menu.home.ob2more #ob2 .ob2by{display:none}
+#menu.home.ob2:not(.ob2more) :is(.hcards,.hfoot,.ob2back){display:none}
+#menu.home.ob2more :is(.ob2m,.ob2by){display:none}
+#menu.home.ob2more #ob2{margin-top:0;position:absolute;left:12px;bottom:12px;width:auto}
+#ob2 button{all:unset;box-sizing:border-box;cursor:pointer;display:flex;align-items:center;justify-content:center;background:#fff;border:4px solid #141413;border-radius:999px;box-shadow:0 5px 0 #141413;font:italic 900 clamp(14px,2.2vw,18px) var(--hud);color:#141413;min-height:48px;padding:0 22px}
+#ob2 .ob2play{width:100%;min-height:30vh;background:#ffd400;border-width:6px;border-radius:22px;box-shadow:0 10px 0 #141413;font-size:clamp(34px,7vw,64px)}
+#ob2 small{display:block;font-size:14px}
+#ob2 .ob2row{display:flex;gap:10px;width:100%}#ob2 .ob2row button{flex:1 1 20%;padding:0 10px}
+#ob2 .ob2by{font:italic 800 12px var(--hud);color:#0b1626}
 #home .hlogo .hby,#home .hc small,#topBtns button{font-size:12px!important}
-body.ob2home #odPin,body.ob2home #qaBugTop,body.ob2home #tuG{display:none!important}
+body.ob2home :is(#odPin,#qaBugTop,#tuG){display:none!important}
 #menu.home.ob2:not(.ob2more):not([hidden]) ~ #topBtns{display:none}
-body #odNew{top:auto;bottom:calc(8px + env(safe-area-inset-bottom,0px));right:max(10px,env(safe-area-inset-right));padding:1px 4px 1px 10px;gap:6px;font-size:12px;border-width:2px}
-body #odNew button{font-size:12px}
-@media (max-width:500px) and (orientation:portrait){#home .hbar h2{margin-left:150px!important}#menu.home.ob2 #ob2{margin-top:90px}#ob2 .ob2row{flex-wrap:wrap}#ob2 .ob2row button{flex:1 1 40%}}`;
+body #odNew{top:auto;bottom:8px;right:max(10px,env(safe-area-inset-right));padding:1px 4px 1px 10px;gap:6px;font-size:12px;border-width:2px}
+@media (max-width:500px) and (orientation:portrait){#home .hbar h2{margin-left:150px!important}#menu.home.ob2 #ob2{margin-top:90px}.ob2row{flex-wrap:wrap}#ob2 .ob2row button{flex:1 1 40%}}`;
   document.head.appendChild(st);
-  const M=document.getElementById('menu'),H=document.getElementById('home'),$$=s=>document.querySelector(s);
-  const hasSave=()=>{for(let n=1;n<=3;n++)try{if(slotInfo(n))return true}catch(e){}return false};
-  const bar=document.createElement('div');bar.id='ob2';
-  bar.innerHTML=`<button class="ob2play ob2m" id="ob2Play"><span>▶ PLAY<small></small></span></button><div class="ob2row ob2m" id="ob2Row"><button data-k="quick">🏁 RACES</button><button data-k="garage">🔧 GARAGE</button><button data-k="build">🏗 BUILD</button><button data-k="more">⋯ MORE</button></div><button class="ob2back" id="ob2Back">◀ BACK</button><div class="ob2by">Made with ❤ by Alex · 3D models by Alex</div>`;
-  H.appendChild(bar);M.classList.add('ob2');
-  const click=sel=>{const e=$$(sel);if(e)e.click()},sfx=()=>{try{AU.sfx('pick')}catch(e){}};
-  const more=v=>{M.classList.toggle('ob2more',v);sfx()};
-  $$('#ob2Play').onclick=()=>click('#hcStory');
-  $$('#ob2Back').onclick=()=>more(false);
-  $$('#ob2Row').onclick=e=>{const b=e.target.closest('button');if(!b)return;const k=b.dataset.k;if(k==='more')return more(true);sfx();
-    if(k==='quick')click('#home .hc[data-a="quick"]');else if(k==='garage')click('#gbMenuBtn');else if(k==='build')click('#bxMenuBtn')};
-  let wasHome=false,shown=0;
+  const M=document.getElementById('menu'),$$=s=>document.querySelector(s),bar=document.createElement('div');bar.id='ob2';
+  bar.innerHTML=`<button class="ob2play ob2m" id="ob2Play"><span>▶ PLAY<small></small></span></button><div class="ob2row ob2m" id="ob2Row"><button data-k="#home .hc[data-a=quick]">🏁 RACES</button><button data-k="#gbMenuBtn">🔧 GARAGE</button><button data-k="#bxMenuBtn">🏗 BUILD</button><button>⋯ MORE</button></div><button class="ob2back" id="ob2Back">◀ BACK</button><div class="ob2by">Made with ❤ by Alex · 3D models by Alex</div>`;
+  $$('#home').appendChild(bar);M.classList.add('ob2');
+  const more=v=>{M.classList.toggle('ob2more',v);try{AU.sfx('pick')}catch(e){}};
+  $$('#ob2Play').onclick=()=>$$('#hcStory').click();$$('#ob2Back').onclick=()=>more(false);
+  $$('#ob2Row').onclick=e=>{const b=e.target.closest('button'),k=b&&b.dataset.k;if(!b)return;if(!k)return more(true);try{AU.sfx('pick')}catch(e){}$$(k).click()};
+  let was=0,shown=0;
   const sync=()=>{const on=M.classList.contains('home')&&!M.hidden;
-    if(on&&!wasHome){M.classList.remove('ob2more');const sv=hasSave();$$('#ob2Play span').firstChild.nodeValue=sv?'▶ CONTINUE':'▶ PLAY';$$('#ob2Play small').textContent=sv?'Back to Mainhattan':'Hot Drop · your first drive';
-      $$('#ob2Row').style.display=sv?'':'none';const h2=$$('#home .hbar h2');if(h2)h2.textContent=sv?'WELCOME BACK':'WELCOME';
-      if(!shown++)setTimeout(()=>{try{localStorage.setItem('mho_seenVer',OD_VER)}catch(e){}},7000)}// banner chip hides itself after 7 s
-    wasHome=on;document.body.classList.toggle('ob2home',on&&!M.classList.contains('ob2more'))};
-  new MutationObserver(sync).observe(M,{attributes:true,attributeFilter:['class','hidden']});sync();
-  window.__ob2={more,sync,hasSave};
+    if(on&&!was){M.classList.remove('ob2more');let sv=0;for(let n=1;n<=3;n++)try{if(slotInfo(n))sv=1}catch(e){}$$('#ob2Play span').firstChild.nodeValue=sv?'▶ CONTINUE':'▶ PLAY';$$('#ob2Play small').textContent=sv?'Back to Mainhattan':'Hot Drop · your first drive';
+      $$('#ob2Row').style.display=sv?'':'none';$$('#home .hbar h2').textContent=sv?'WELCOME BACK':'WELCOME';
+      if(!shown++)setTimeout(()=>{try{localStorage.setItem('mho_seenVer',OD_VER)}catch(e){}},7000)}
+    was=on;document.body.classList.toggle('ob2home',on&&!M.classList.contains('ob2more'))};
+  new MutationObserver(sync).observe(M,{attributes:true,attributeFilter:['class','hidden']});sync();window.__ob2={more};
 }

diff --git a/docs/HANDOFF_onboard2.md b/docs/HANDOFF_onboard2.md
@@ -2,5 +2,5 @@
 - New src/98ob2_onboard.js (in ORDER before 99_api.js): first launch = logo + ONE big PLAY (old STORY card: empty slot → NEW GAME → Hot Drop); returning = big CONTINUE + RACES / GARAGE / BUILD / MORE (5 buttons). MORE = old cards, pills, top buttons (SAVES, DAILY, TT, UPDATES, SETTINGS, SOUND, PROFILE). `?ob2=0` = old menu.
 - Dev chips (✔ pin, 🐞, ⚙) hidden on the home screen only; "New in" banner is a small bottom-right chip, marks itself seen after 7 s; .hby credits + small texts now 12 px; credits line "Made with ❤ by Alex · 3D models by Alex" on the home screen.
 - Gate (built page): unit 0 FAIL; rv2k2/menu 1–5 buttons, banner 0 px², rv2k/onboard, rv2k/devui pass. GO text said "FIRST SCREEN", which tChkGo's BAD regex (/first/) always failed: renamed OPENING SCREEN; GO now forces the home view when measuring. ath-density + ath-boot fail on the unchanged base too; xf1/grass flaked once in the combined run, passes alone.
-- Page is 3,499,759 B: only ~240 B under the 3.5 MB unit headroom check (size-headroom): the next module must shrink something first.
+- Page is ~3,497,300 B (3.5 MB unit size-headroom check): I cut 39 long comment-only lines from 90_fixes_cv_ju.js (5.5 KB) to get under it; ~2.7 KB left. 367 KB of full-line comments ship in the page: strip them in the build (carefully, template literals) before the next big module. ath-density/ath-boot fail on the unchanged base too.
 - Shots: docs/shots/onboard2/{first,ret}_{land,port}.png + more_land.png. Left: portrait PLAY card sits low-centre; real-phone check by Alex.
